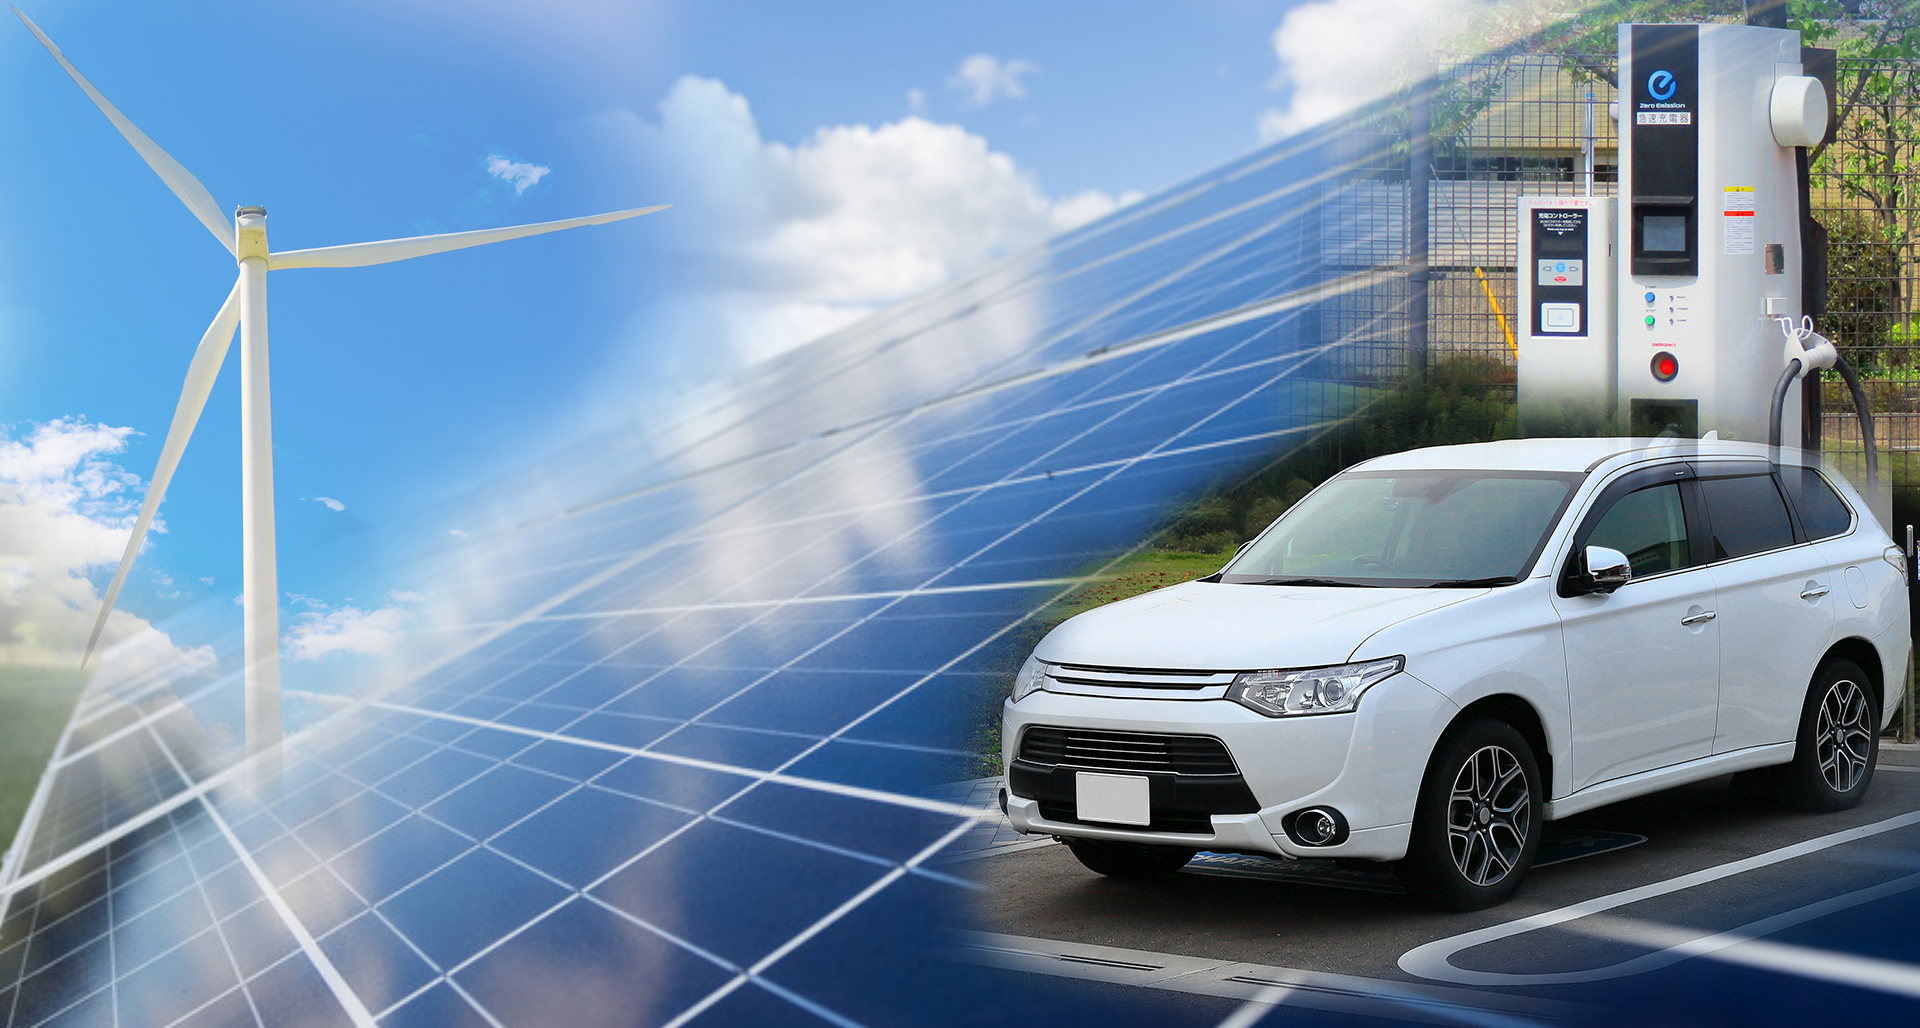
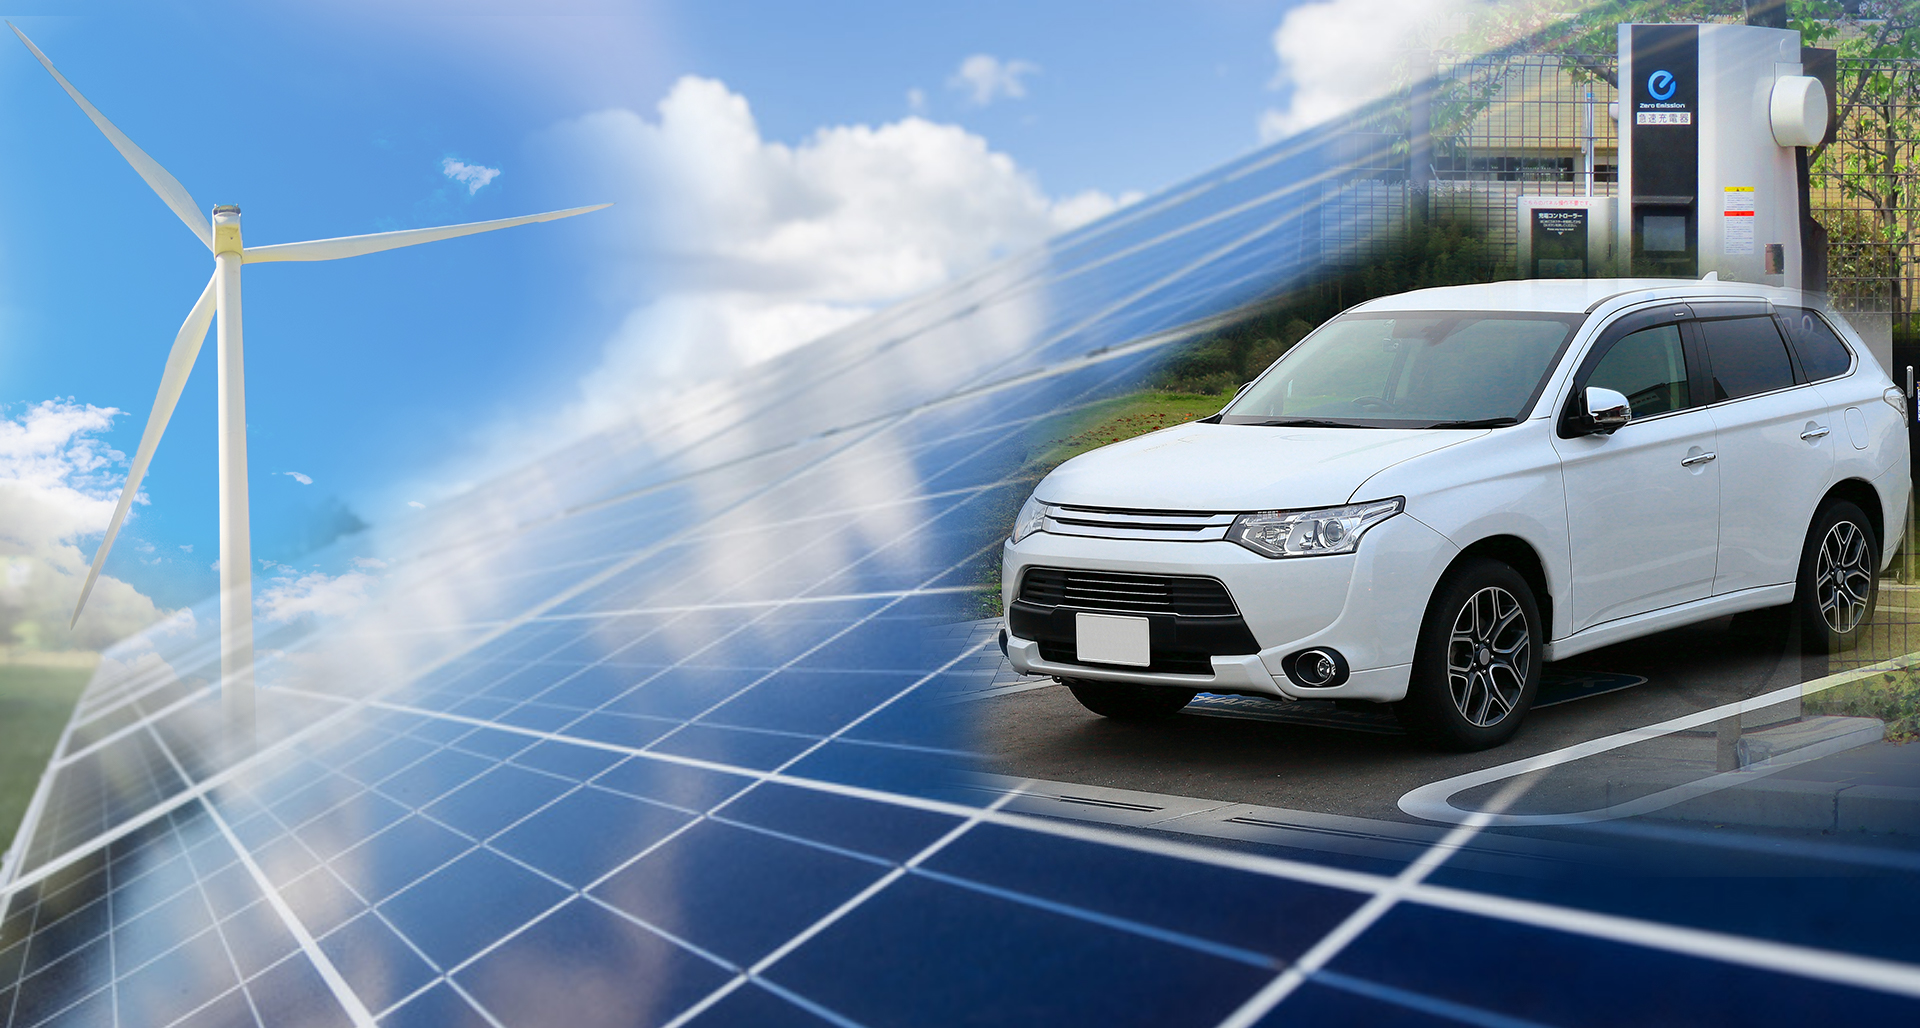
UP

diff --git a/anjet/tw/css/common.css b/anjet/tw/css/common.css
@@ -261,7 +261,7 @@
     }
     .banner1.applications{
         background: linear-gradient(0deg, #022d41 10%, transparent 80%) center center / 100% 100%,
-        url("../img/banner/applications.jpg")no-repeat right 40% / 100% auto;
+        url("../img/banner/applications.jpg")no-repeat right 5% / 100% auto;
     }
 
 /* -----------------*/   
